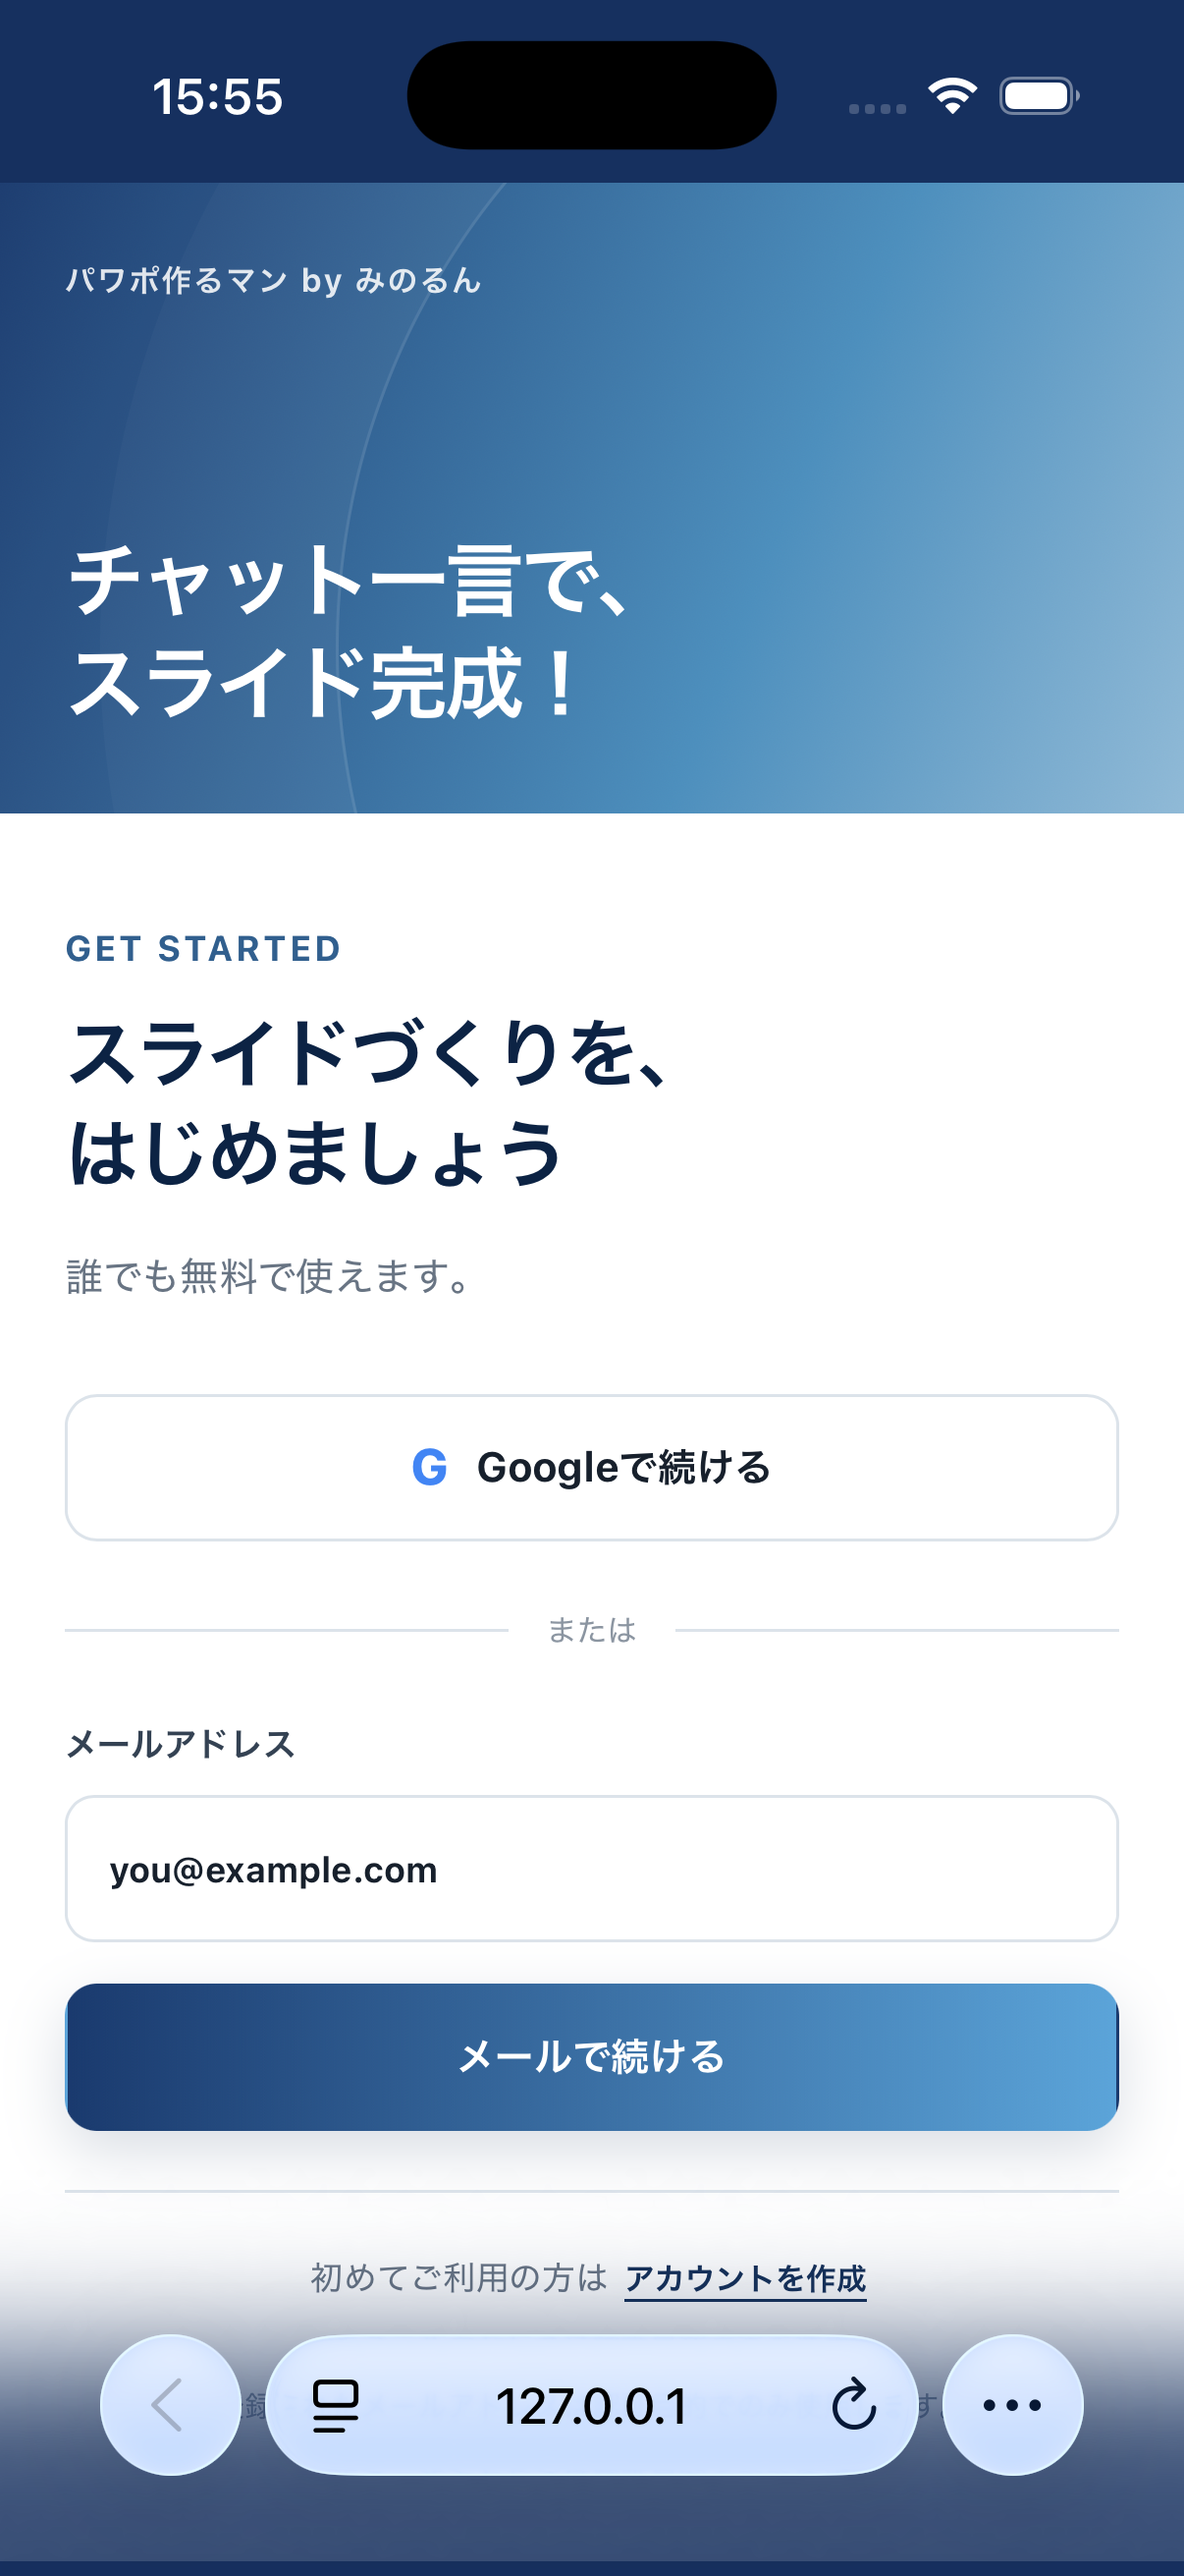
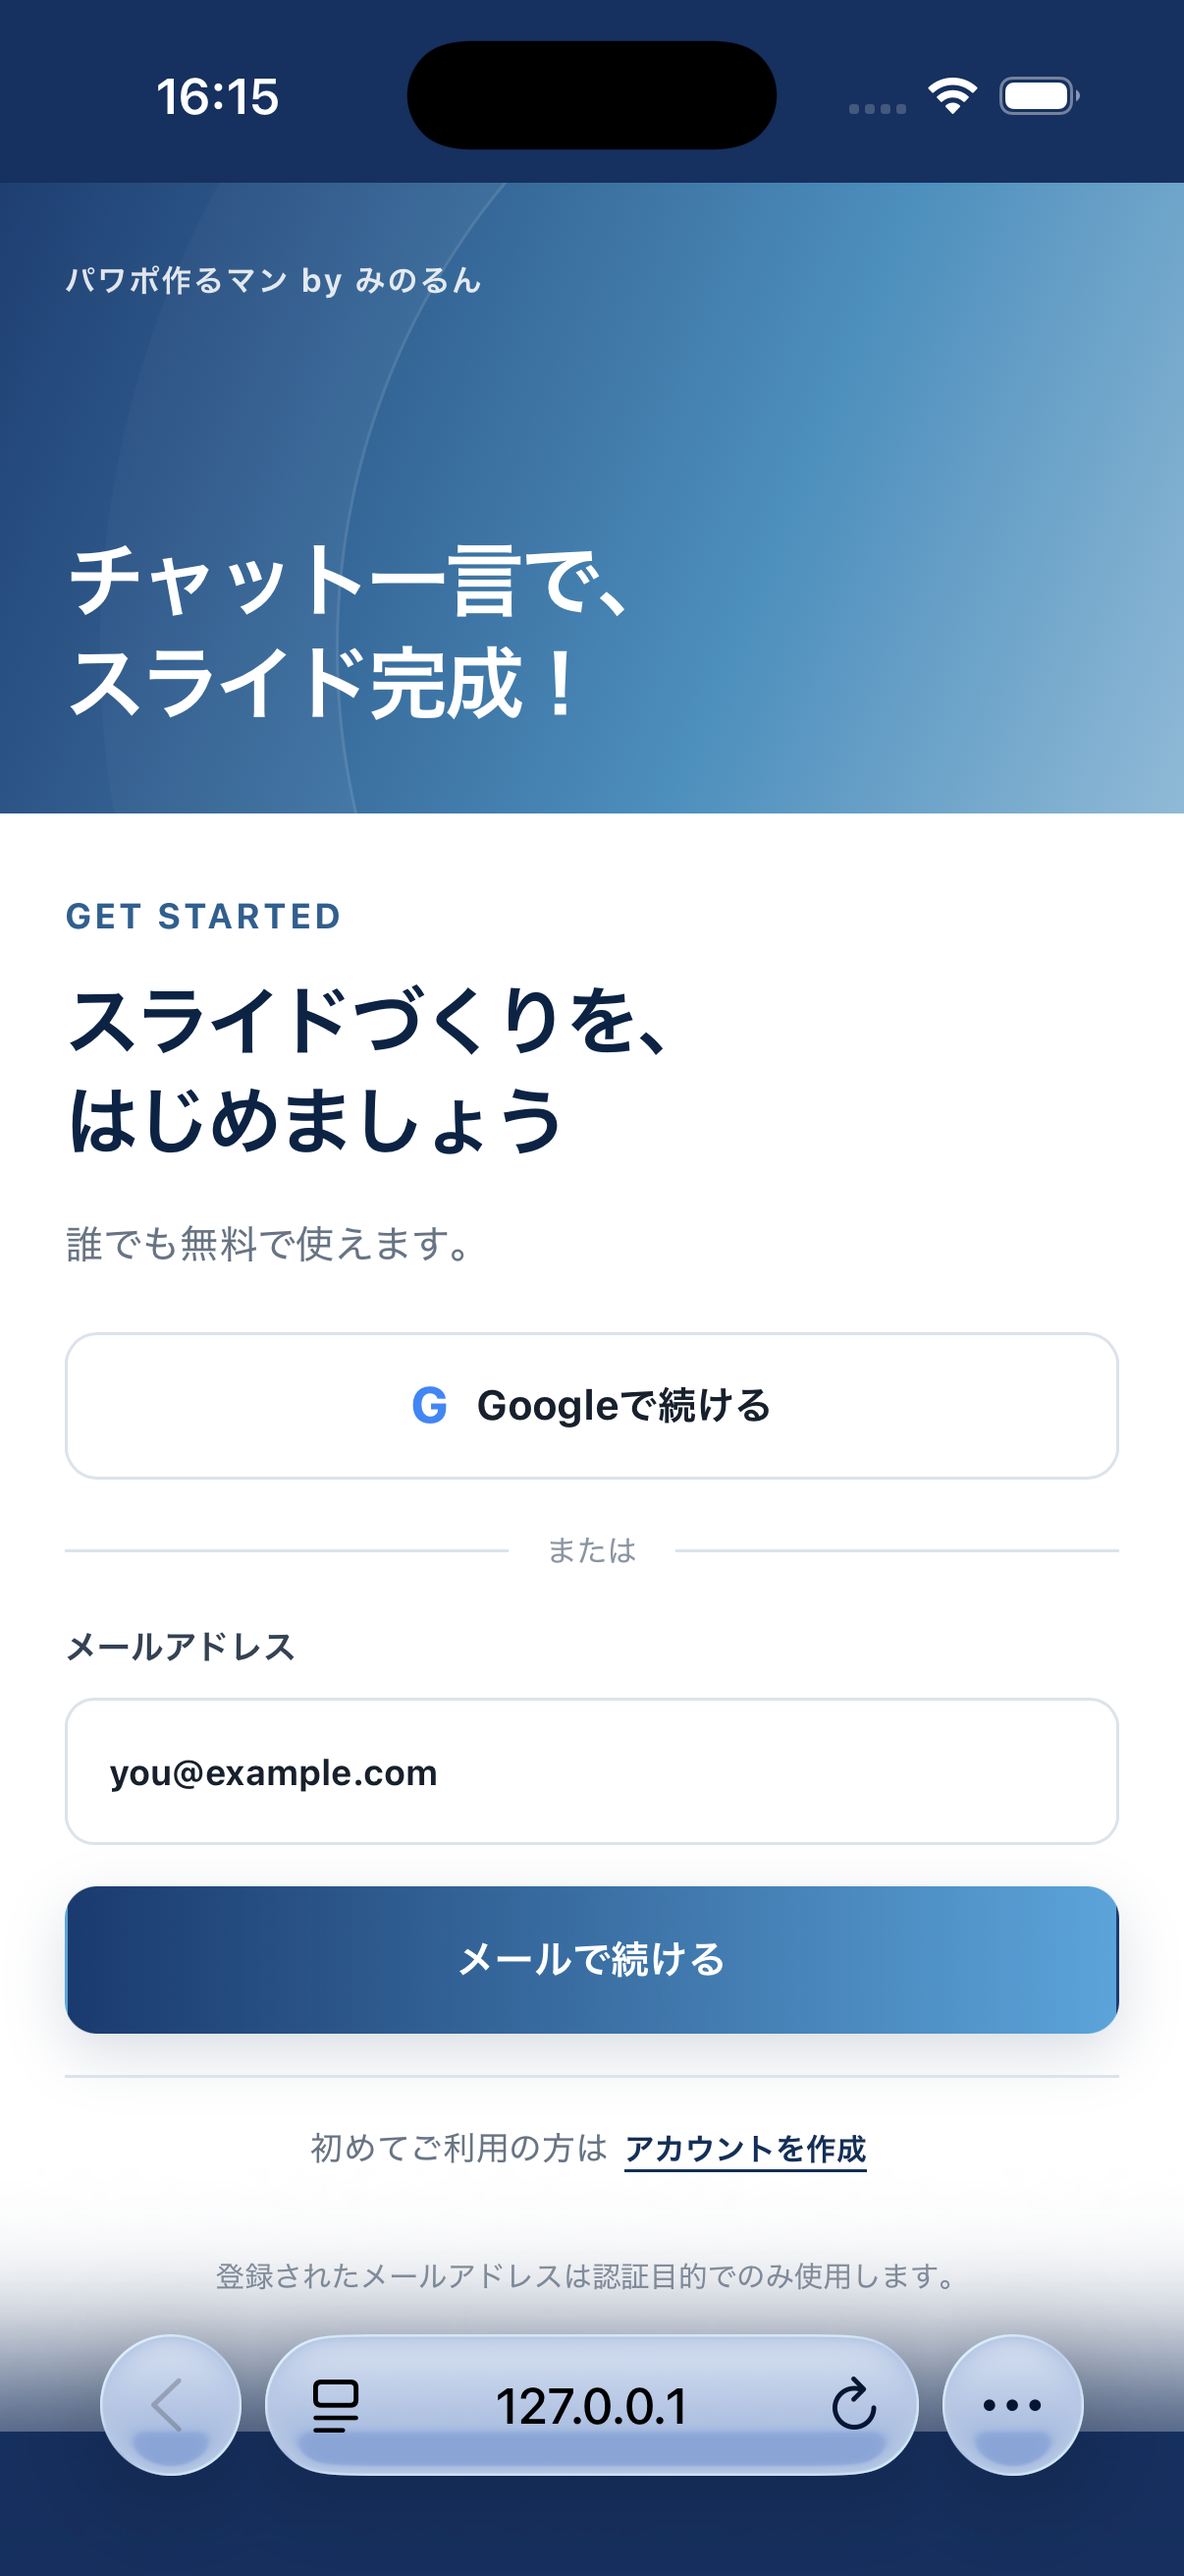
ログイン画面文言の対応レポートを本番反映まで含めて更新

Changed region(s): [[0.0, 0.6178, 1.0, 1.0], [0.0614, 0.3398, 0.6443, 0.6487], [0.1227, 0.0309, 0.2454, 0.0618]]

diff --git a/tmp/auth-copy-fix-2026-08-15.html b/tmp/auth-copy-fix-2026-08-15.html
@@ -3,7 +3,7 @@
 <head>
 <meta charset="utf-8">
 <meta name="viewport" content="width=device-width, initial-scale=1, viewport-fit=cover">
-<title>ログイン画面文言｜案A実装の対応レポート</title>
+<title>ログイン画面文言｜案A実装と本番反映</title>
 <style>
 :root{
   --blue-deep:#0e0d6a; --blue:#0a4695; --blue-mid:#0862aa; --blue-bright:#0aa0dc;
@@ -94,7 +94,7 @@ code{background:var(--soft);border:1px solid var(--line);border-radius:5px;paddi
   font-size:12.5px;font-family:ui-monospace,SFMono-Regular,Menlo,monospace;color:var(--blue-deep)}
 
 .shot{border:1px solid var(--line);border-radius:16px;padding:18px;background:#fff;margin:24px 0;
-  max-width:420px}
+  max-width:400px}
 .shot img{width:100%;height:auto;display:block;border-radius:10px}
 .shot figcaption{font-size:12.5px;color:var(--mut);margin-top:12px;text-align:center;line-height:1.7}
 
@@ -119,9 +119,9 @@ footer p{margin:8px 0}
 <div class="hero">
   <div class="hero-in">
     <span class="kicker">パワポ作るマン ／ 対応レポート</span>
-    <h1>ログイン画面の文言と<br>新規登録の導線を直しました</h1>
+    <h1>ログイン画面の文言と導線を直し、<br>本番へ反映しました</h1>
     <p class="sub">モックの案Aを採用。リード文はご指示どおり「誰でも無料で使えます。」に。</p>
-    <div class="meta">対象：src/components/Auth/AuthScreen.tsx の initial 画面<br>2026年8月15日 ／ 本番未反映（デプロイは未実施）</div>
+    <div class="meta">対象：最初のログイン画面（initial）<br>2026年8月15日 ／ 本番デプロイ済み</div>
   </div>
 </div>
 
@@ -130,7 +130,7 @@ footer p{margin:8px 0}
 <section id="s1">
   <span class="eyebrow">01</span>
   <h2>画面の Before / After</h2>
-  <p class="lead">変えたのは文言3か所と、最下部への新規導線1行です。ボタンの構成・画面遷移・CSSはそのままです。</p>
+  <p class="lead">文言3か所を変え、次の画面にあった新規登録の導線を最初の画面へ前倒ししました。</p>
 
   <div class="ba">
     <div>
@@ -180,80 +180,66 @@ footer p{margin:8px 0}
       </tbody>
     </table>
   </div>
-  <p class="note">見出しは <code>&lt;br /&gt;</code> で明示的に2行にしています。画面幅による折り返し位置のブレを防ぐためで、モックと同じ組みになります。</p>
 </section>
 
 <section id="s2">
   <span class="eyebrow">02</span>
-  <h2>コードの差分</h2>
-  <p class="lead">initial ブロックの4行と、新規登録画面の戻り先の分岐です。</p>
+  <h2>スマホの収まりも直しました</h2>
+  <p class="lead">前回の報告で挙げた「追加した導線がSafariのアドレスバーに隠れる」件です。ご一任いただいたので直しました。</p>
 
-  <h3>文言と導線（initial 画面）</h3>
-<pre><span class="del">- &lt;p className="auth-eyebrow"&gt;Welcome back&lt;/p&gt;
-- &lt;h2&gt;続きをはじめましょう&lt;/h2&gt;
-- &lt;p className="auth-lead"&gt;Googleまたはメールアドレスで続けられます。&lt;/p&gt;</span>
-<span class="add">+ &lt;p className="auth-eyebrow"&gt;Get started&lt;/p&gt;
-+ &lt;h2&gt;スライドづくりを、&lt;br /&gt;はじめましょう&lt;/h2&gt;
-+ &lt;p className="auth-lead"&gt;誰でも無料で使えます。&lt;/p&gt;</span>
+  <p>実機で測ったところ、導線の下端がCSS換算で約780px、アドレスバーが796pxから始まっており、余裕が16pxしかありませんでした。スマホ幅だけ4か所の余白を2〜3割ずつ削って、約44px手前に引き上げています。ヒーローの高さや文字サイズは触っていません。</p>
 
-  （中略：Googleボタン、区切り、メールアドレス入力フォーム）
+  <div class="table-wrap">
+    <table>
+      <thead><tr><th>詰めた箇所</th><th>Before</th><th>After</th></tr></thead>
+      <tbody>
+        <tr><td>パネル上余白</td><td>37px</td><td>26px</td></tr>
+        <tr><td>リード文の下</td><td>28px</td><td>18px</td></tr>
+        <tr><td>「または」の上下</td><td>22px</td><td>16px</td></tr>
+        <tr><td>導線の上（余白＋罫線まで）</td><td>20px ＋ 18px</td><td>14px ＋ 13px</td></tr>
+      </tbody>
+    </table>
+  </div>
+  <p class="note">いずれも <code>@media (max-width: 840px)</code> の中だけの指定です。PC幅は1pxも変わっていません。</p>
 
-    &lt;button className="auth-action auth-primary" type="submit"&gt;メールで続ける&lt;/button&gt;
-  &lt;/form&gt;
-<span class="add">+ &lt;div className="auth-new-user"&gt;初めてご利用の方は &lt;button className="auth-text-button" type="button"
-+   onClick={() =&gt; { setSignupFrom('initial'); setState('signup'); }}&gt;アカウントを作成&lt;/button&gt;&lt;/div&gt;</span></pre>
-  <p class="note"><code>auth-new-user</code> はメール画面ですでに使っている既存クラスなので、CSSの追加はありません。</p>
+  <figure class="shot">
+    <img src="auth-after-iphone.png" alt="iPhone Simulator で表示した変更後のログイン画面">
+    <figcaption>iPhone 17 Simulator（Safari）。導線に加えて、その下の注記まで読める位置に収まりました。</figcaption>
+  </figure>
 
-  <h3>戻り先の分岐（新規登録画面）</h3>
-  <p>新規登録へ入る経路が2つになったため、戻り先を覚える状態を1つ足しました。これが無いと、最初の画面から登録へ進んだ人が「戻る」でメールアドレス入力後の画面に落ちて、空欄のメール欄が表示されます。</p>
-<pre><span class="add">+ // 新規登録はメール入力前後のどちらからも入れるため、戻り先を覚えておく。
-+ const [signupFrom, setSignupFrom] = useState&lt;AuthState&gt;('email');</span>
-
-  // 新規登録画面の戻るボタン
-<span class="del">- &lt;button className="auth-back" onClick={() =&gt; setState('email')}&gt;← 戻る&lt;/button&gt;</span>
-<span class="add">+ &lt;button className="auth-back" onClick={() =&gt; setState(signupFrom)}&gt;← 戻る&lt;/button&gt;</span></pre>
+  <h3>試して取りやめた対応が1つあります</h3>
+  <p>余白を詰めた結果ページが1画面に収まり、画面最下部にアプリの地色（濃紺）が出るようになりました。これを白にしようとキャンバスの背景を上下2色に塗り分けたところ、<b>今度は上端のステータスバーが白帯になって崩れました</b>。Safariはステータスバー周辺をキャンバスの背景色で塗るため、ここは単色である必要があり、上端を濃紺にする限り下端も濃紺になります。</p>
+  <p>取りやめた結果、上端も下端も濃紺でヒーローと揃う形になっています。チャット画面と同じ地色なのでアプリ全体としては一貫しており、悪くない見え方だと判断しました。気になるようでしたら別の手を考えます。</p>
 </section>
 
 <section id="s3">
   <span class="eyebrow">03</span>
-  <h2>実機での確認</h2>
-  <p class="lead">iPhone 17 Simulator と PC幅の両方で表示し、遷移も実際にクリックして確かめました。</p>
-
-  <figure class="shot">
-    <img src="auth-after-iphone.png" alt="iPhone Simulator で表示した変更後のログイン画面">
-    <figcaption>iPhone 17 Simulator（Safari）。ヒーローの帯はDynamic Islandまでつながり、横スクロールも発生していません。</figcaption>
-  </figure>
+  <h2>本番反映</h2>
+  <p class="lead">deploy-prod のラッパー経由で、差分を確認してから流しました。</p>
 
   <div class="table-wrap">
     <table>
       <thead><tr><th>確認項目</th><th>結果</th></tr></thead>
       <tbody>
         <tr><td>ESLint</td><td class="ok">エラーなし</td></tr>
-        <tr><td>ビルド</td><td class="ok">成功（2.86秒）</td></tr>
-        <tr><td>テスト</td><td class="ok">35件すべて通過（AuthScreen の3件を含む）</td></tr>
+        <tr><td>フロントのテスト</td><td class="ok">35件すべて通過</td></tr>
+        <tr><td>バックエンドのテスト</td><td class="ok">138件すべて通過</td></tr>
+        <tr><td>触っていない5スタック</td><td class="ok">すべて No changes detected</td></tr>
+        <tr><td>PawapoWeb の差分</td><td class="ok">Lambdaのイメージ更新1件のみ（作成0・削除0・置換0）</td></tr>
         <tr><td>iPhone 実機表示</td><td class="ok">上端・余白・横幅とも問題なし</td></tr>
-        <tr><td>PC幅（1280px）</td><td class="ok">1画面に収まる。左のブランド面も従来どおり</td></tr>
-        <tr><td>アカウント作成へ遷移</td><td class="ok">登録画面が開く</td></tr>
-        <tr><td>登録画面から戻る</td><td class="ok">最初の画面へ戻る（メール画面へ落ちない）</td></tr>
+        <tr><td>PC幅（1280px）</td><td class="ok">変更前と同一</td></tr>
+        <tr><td>登録画面からの戻り先</td><td class="ok">最初の画面へ戻る（メール画面へ落ちない）</td></tr>
       </tbody>
     </table>
   </div>
 
   <div class="callout blue">
-    <p><b>本番へはまだ反映していません。</b> mainへのpushはリポジトリの正本を更新するだけで、AWSは変わりません。反映するときは deploy-prod スキル経由で <code>diff</code> を確認してから流します。</p>
+    <p><b>入口が2つになったので、戻り先を覚える状態を1つ足しています。</b> これが無いと、最初の画面から登録へ進んだ人が「戻る」でメールアドレス入力後の画面に落ち、空欄のメール欄を見ることになります。実際にクリックして確認しました。</p>
   </div>
 </section>
 
-<section id="s4">
-  <span class="eyebrow">04</span>
-  <h2>もう1つ気づいた点</h2>
-  <p class="lead">今回は直していません。判断だけいただければ、次のついでに入れられます。</p>
-  <p>最下部の「アカウントを作成」は、iPhoneではSafariのアドレスバーにわずかに重なる位置にあります。少しスクロールすれば見えますが、初訪問の人に見せたい導線としては、あと一歩ファーストビューに入りきっていません。</p>
-  <p>入れきるなら、リード文と最初のボタンの間の余白（現在28px）を詰めるのが影響の少ない手です。ただしPC幅では現状で問題なく収まっているため、スマホ幅だけの調整になります。</p>
-</section>
-
 <footer>
-  <p>変更ファイル：src/components/Auth/AuthScreen.tsx（1ファイル、7行）</p>
+  <p>変更ファイル：src/components/Auth/AuthScreen.tsx ／ src/components/Auth/AuthScreen.css</p>
   <p>モック：ログイン画面文言｜現行と改善2案のモック（共有くん内）</p>
 </footer>
 
